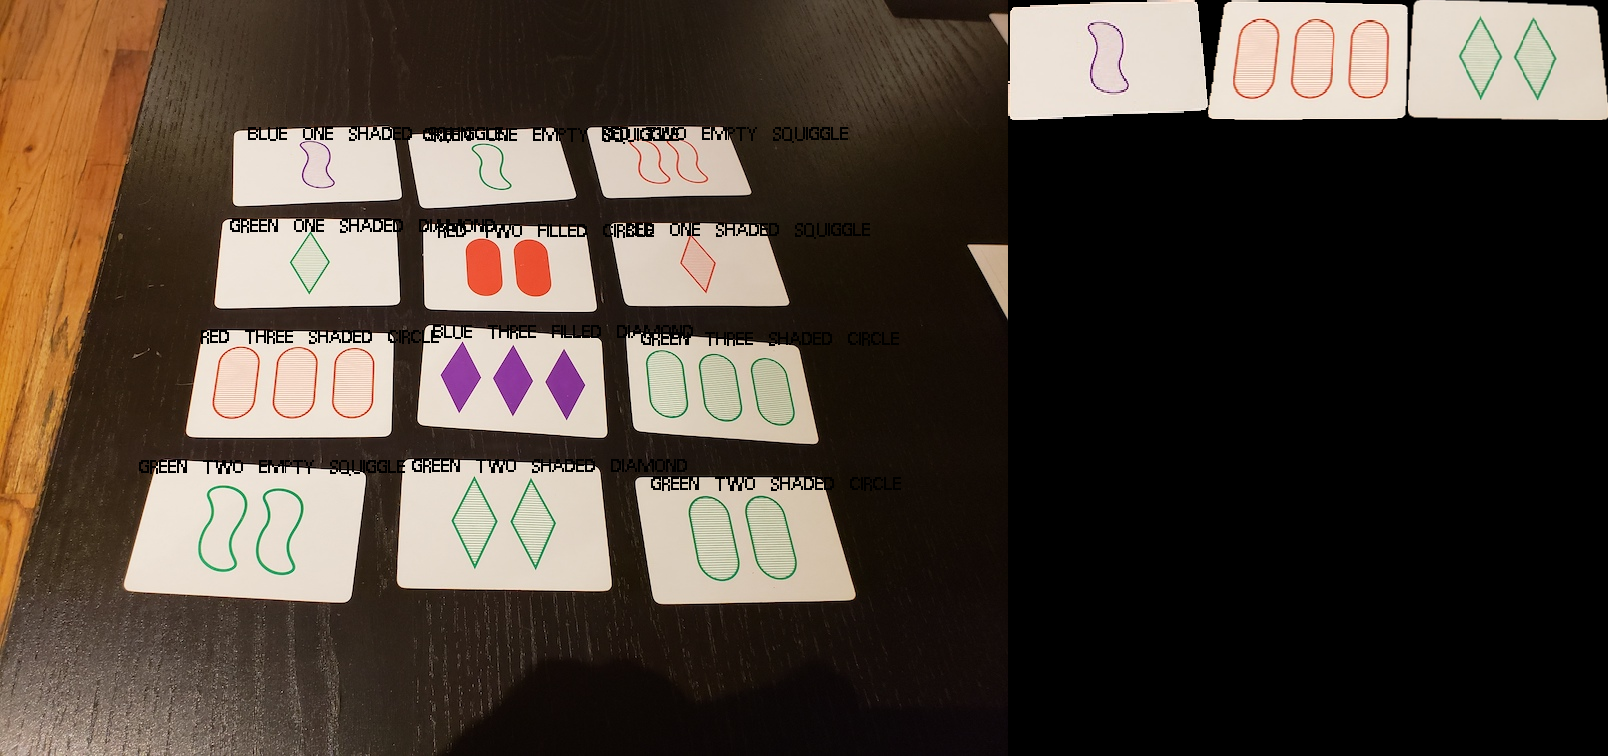
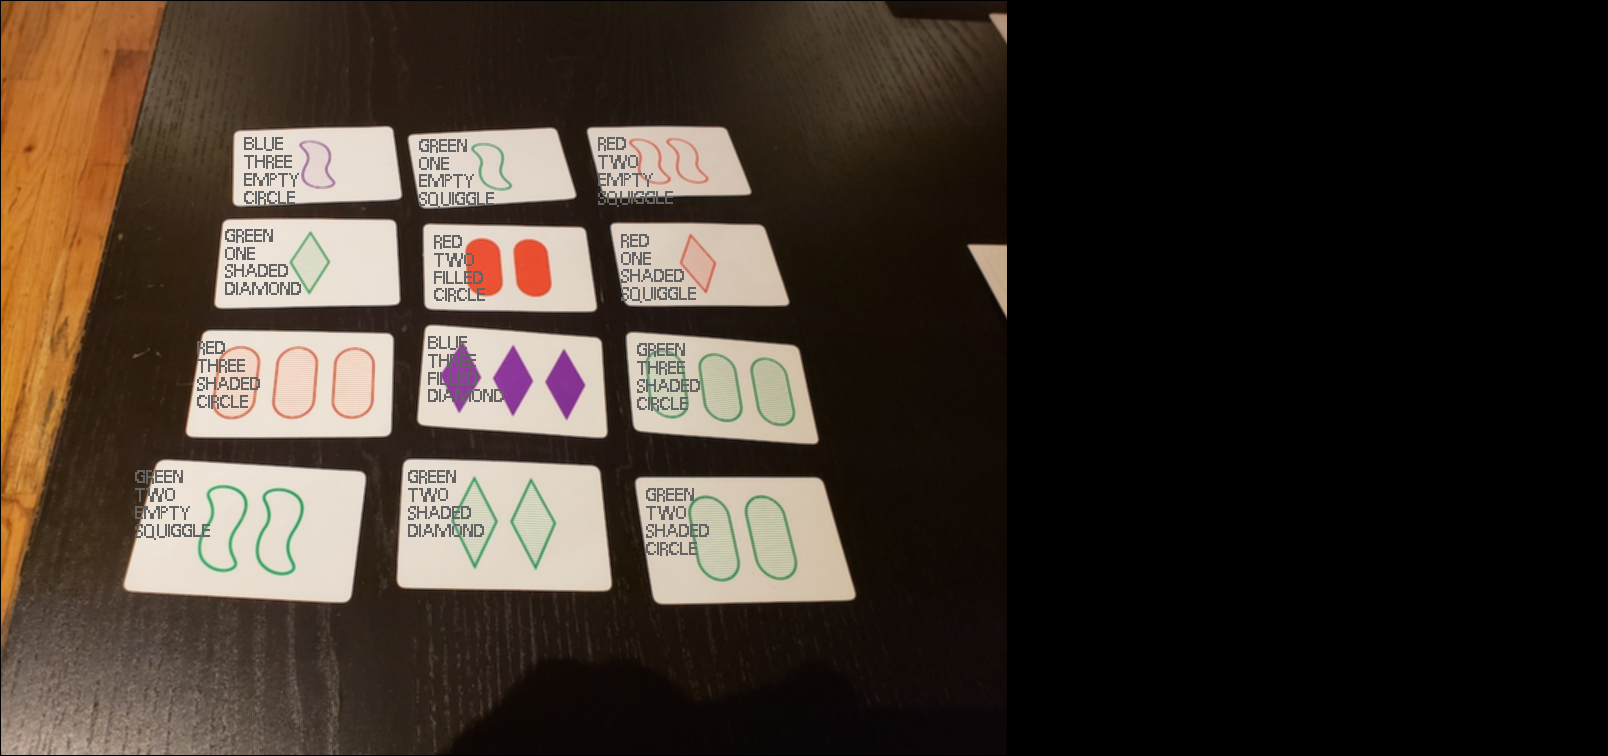
quick change to initial run

diff --git a/src/Card.java b/src/Card.java
@@ -8,7 +8,7 @@ public class Card {
 
     public static enum Shape {
         DIAMOND (0.096),
-        SQUIGGLE (0.125),
+        SQUIGGLE (0.124),
         CIRCLE (100);
 
         private double threshold;
@@ -39,7 +39,7 @@ public class Card {
     public static enum Fill {
         EMPTY (8),
         SHADED (200),
-        FILLED (1000);
+        FILLED (10000);
 
         private double threshold;
         private Fill(double threshold) {
@@ -82,12 +82,15 @@ public class Card {
     private ArrayList<PixelArea> internal;
     private short[][][] baseGrid;
 
+    private static final int TEXT_LINE_SPACE = 5;
+    private static final int TEXT_MARGIN = 10;
+    private static final int TEXT_COLOR = Color.rgb2int(100, 100, 100);
+
 
     public Card(PixelArea cardArea, short[][][] baseGrid) {
         this.baseGrid = baseGrid;
         this.cardArea = cardArea;
 
-        System.out.println(this.cardArea.pixelSquare.length);
         ritikareadetection.inverse = true;
         internal = ritikareadetection.processImage(cardArea.pixelSquare[0], cardArea.pixelSquare[1], cardArea.pixelSquare[2]);
 
@@ -144,6 +147,7 @@ public class Card {
 
         double dist = highlight.getAvgDistance(area1, baseGrid[0], baseGrid[1], baseGrid[2], avg, 6);
 
+        System.out.println(dist);
         return getFillThreshold(dist);
     }
 
@@ -181,7 +185,10 @@ public class Card {
 
     public void draw(int[][] grid) {
         baseGrid = Image.convert(grid);
-        Renderer.drawText(grid, toString(), cardArea.minX, cardArea.minY, Color.BLACK);
+        int next = Renderer.drawText(grid, this.color.name(), cardArea.minX + TEXT_MARGIN, cardArea.minY + TEXT_MARGIN, TEXT_COLOR) + TEXT_LINE_SPACE;
+        next = Renderer.drawText(grid, this.number.name(), cardArea.minX + TEXT_MARGIN, next, TEXT_COLOR) + TEXT_LINE_SPACE;
+        next = Renderer.drawText(grid, this.fill.name(), cardArea.minX + TEXT_MARGIN, next, TEXT_COLOR) + TEXT_LINE_SPACE;
+        Renderer.drawText(grid, this.shape.name(), cardArea.minX + TEXT_MARGIN, next, TEXT_COLOR);
     }
 
     private static Fill getFillThreshold(double r){
@@ -210,40 +217,6 @@ public class Card {
 
         }
     }
-
-/*
-    private static final double fillThreshold = 0.15;
-    public static Fill getFill(int[][] grid) {
-        // get center of grid
-        int cr = grid.length / 2, cc = grid[0].length / 2;
-        // flood fill, then get contrast
-        ArrayList<int[]> activeLocations = new ArrayList<int[]>(){{
-            add(new int[]{cr, cc});
-        }};
-
-        int baseColor = grid[cr][cc];
-        int accumulated = 0;
-        Integer count = 0;
-
-        ArrayList<int[]> newLocs = new ArrayList<>();
-        while (activeLocations.size() != 0) {
-            for (int[] loc : activeLocations) {
-                for (int[] newLoc : getNeighborhood(grid, loc[0], loc[1])) {
-                    if (Color.getDistance2(baseColor, grid[newLoc[0]][newLoc[1]]) < fillThreshold) {
-                        Color.averageColors(accumulated, grid[newLoc[0]][newLoc[1]], count);
-                        newLocs.add(newLoc);
-                    }
-                }
-            }
-
-            activeLocations.clear();
-            activeLocations.addAll(newLocs);
-            newLocs.clear();
-        }
-
-
-    }
-    */
 
     public static ArrayList<Card> getCards(short[][][] image) {
         ArrayList<Card> cards = new ArrayList<>();

diff --git a/src/Renderer.java b/src/Renderer.java
@@ -76,8 +76,9 @@ public class Renderer {
         Renderer.drawLine(grid, x0, y1, x1, y0, color);
     }
 
-    public static void drawText(int[][] grid, String text, int x, int y, int color) {
+    public static int drawText(int[][] grid, String text, int x, int y, int color) {
         text = text.toLowerCase();
+        int gMaxY = 0;
         for (int ci = 0; ci < text.length(); ci++) {
             char c = text.charAt(ci);
             if (x >= grid[0].length || y >= grid.length) break;
@@ -93,12 +94,15 @@ public class Renderer {
                 if(loc[1] > maxY) maxY = loc[1];
 
                 if(loc[0] + x >= grid[0].length || loc[1] + y >= grid.length) {
-                    return;
+                    return y + gMaxY;
                 }
                 grid[y + loc[1]][x + loc[0]] = color;
             }
 
+            if (maxY > gMaxY) gMaxY = maxY;
+
             x += maxX + 2;
         }
+        return y + gMaxY;
     }
 }

diff --git a/src/Main.java b/src/Main.java
@@ -10,13 +10,13 @@ public class Main {
     }
 
     public static void imageTest() {
-        //identify("inputs/input1.jpeg", "outputs/output1.png");
+        identify("inputs/input1.jpeg", "outputs/output1.png", true);
         //identify("inputs/input2.jpeg", "outputs/output2.png");
         //identify("inputs/input3.png", "outputs/output3.png");
         //identify("inputs/input4.jpeg", "outputs/output4.png", true);
         //identify("inputs/input5.jpeg", "outputs/output5.png");
         //identify("inputs/input6.jpeg", "outputs/output6.png", true);
-        identify("inputs/setGame1.png", "outputs/outputGame1.png");
+        //identify("inputs/setGame1.png", "outputs/outputGame1.png");
         //identify("inputs/setGame2.png", "outputs/outputGame2.png");
 
         System.out.println("finished with 0 errors!");
